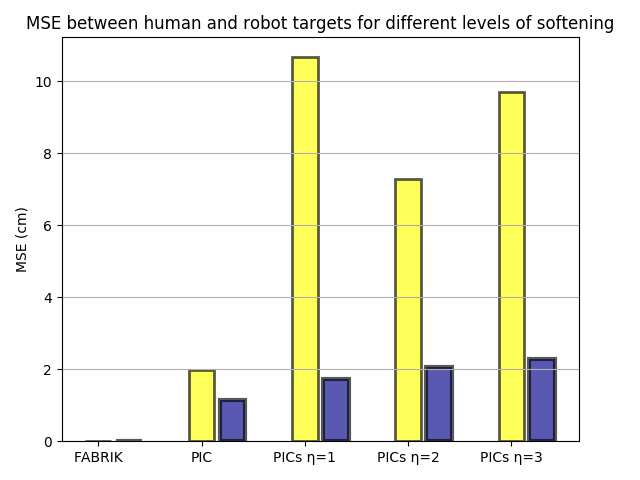
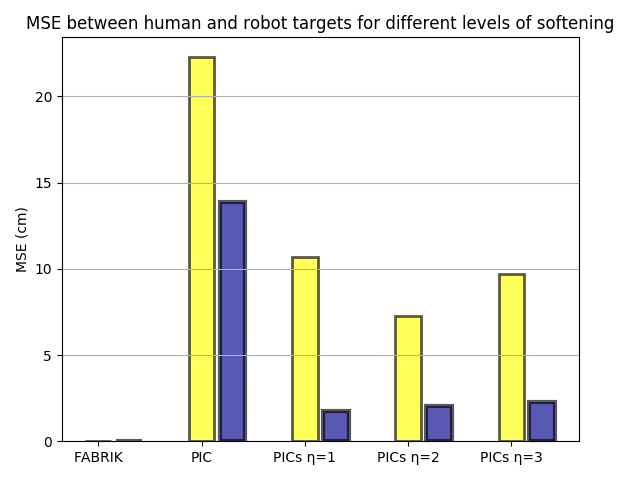
good statistics for all

diff --git a/batch_processing.py b/batch_processing.py
@@ -1,35 +1,50 @@
 import numpy as np
 from os import path
 tasks = ['incision_curvy1', 'incision_straight3', 'assembly1', 'assembly2', 'assembly3']
+# tasks = ['incision_curvy1', 'incision_straight3']
 robots = ["yumi","baxter"]
-# algorithms = ['fabrik', 'poseimit0', 'poseimit3']
-algorithms = ['fabrik', 'posecones']
-out_path = 'iros_results/soft_to_rigid_10/'
+algorithms = ['fabrik', 'poseimit0', 'poseimit3']
+# algorithms = ['fabrik', 'posecones']
+out_path = 'data/rss_results/'
+# out_path = 'data/unfiltered_results/'
+# out_path = 'iros_results/soft_to_rigid_10/'
 # out_path = 'data/iros_rigid_10/'
-pose_file = "pose.txt"
-occlussion_file = "occlussion.txt"
-distance_file = "distances.txt"
+pose_file = "pose_table.txt"
+occlussion_file = "occlussion_table.txt"
+distance_file = "distances_table.txt"
 pose_writer = open(path.join(out_path,pose_file),"w+")
 occlussion_writer = open(path.join(out_path,occlussion_file), "w+")
 distance_writer = open(path.join(out_path,distance_file), "w+")
 show_std = True
 dec = "{:.2f}"
+pose_totals = [[] for i in range(len(algorithms))]
+dist_totals = [[] for i in range(len(algorithms))]
+occ_totals = [[] for i in range(len(algorithms))]
+hum_totals = [[] for i in range(len(algorithms))]
 task_count=0
-for task in tasks:
-    for robot in robots:
+for robot in robots:
+    for task in tasks:
         pose_line = ""
         occ_line = ""
         dist_line = ""
         h_occ_mean = ""
         h_occ_std = ""
+        algorithm_index = 0
         for algorithm in algorithms:
             name = path.join(out_path,task+"_"+ robot + "_" + algorithm + ".txt")
             if path.exists(name):
                 print("Processing:", name)
                 result = np.loadtxt(name, delimiter=' ')
+                # unify the occlussion metrics
                 if "assembly" in task:
                     result[:,2] = 1- result[:,2]
                     result[:,1] = 1- result[:,1]
+                # accumulated results in the totals matrix
+                pose_totals[algorithm_index] = np.concatenate((pose_totals[algorithm_index],result[:,0]))
+                dist_totals[algorithm_index] = np.concatenate((pose_totals[algorithm_index],result[:,3]))
+                occ_totals[algorithm_index] = np.concatenate((pose_totals[algorithm_index],result[:,2]))
+                hum_totals[algorithm_index] = np.concatenate((pose_totals[algorithm_index],result[:,1]))
+                #### finished accumulating
                 means = np.mean(result, axis=0)
                 stds = np.std(result, axis=0)
                 pose_line += dec.format(means[0])
@@ -44,6 +59,7 @@ for task in tasks:
                 pose_line += " & "
                 occ_line += " & "
                 dist_line += " & "
+                algorithm_index += 1
         pose_line = pose_line[:-2]
         occ_line = occ_line[:-2]
         dist_line = dist_line[:-2]
@@ -56,3 +72,33 @@ for task in tasks:
         pose_writer.writelines(pose_line)
         occlussion_writer.writelines(occ_line)
         distance_writer.writelines(dist_line)
+# Do the totals
+pose_line = ""
+occ_line = ""
+dist_line = ""
+for algorithm_index in range(len(algorithms)):
+    pose_line += dec.format(np.mean(pose_totals[algorithm_index]))
+    occ_line += dec.format(np.mean(occ_totals[algorithm_index]))
+    dist_line += dec.format(np.mean(dist_totals[algorithm_index]))
+    if show_std:
+        pose_line += " ("+ dec.format(np.std(pose_totals[algorithm_index])) +")"
+        occ_line += " ("+ dec.format(np.std(occ_totals[algorithm_index])) +")"
+        dist_line += " ("+ dec.format(np.std(dist_totals[algorithm_index])) +")"
+    pose_line += " & "
+    occ_line += " & "
+    dist_line += " & "
+pose_line = pose_line[:-2]
+occ_line = occ_line[:-2]
+dist_line = dist_line[:-2]
+occ_line += " & " + dec.format(np.mean(hum_totals))
+if show_std:
+    occ_line += " ("+ dec.format(np.std(hum_totals)) +")"
+pose_line += "\\\\\n"
+occ_line += "\\\\\n"
+dist_line += "\\\\\n"
+pose_writer.writelines(pose_line)
+occlussion_writer.writelines(occ_line)
+distance_writer.writelines(dist_line)
+pose_writer.close()
+occlussion_writer.close()
+distance_writer.close()
